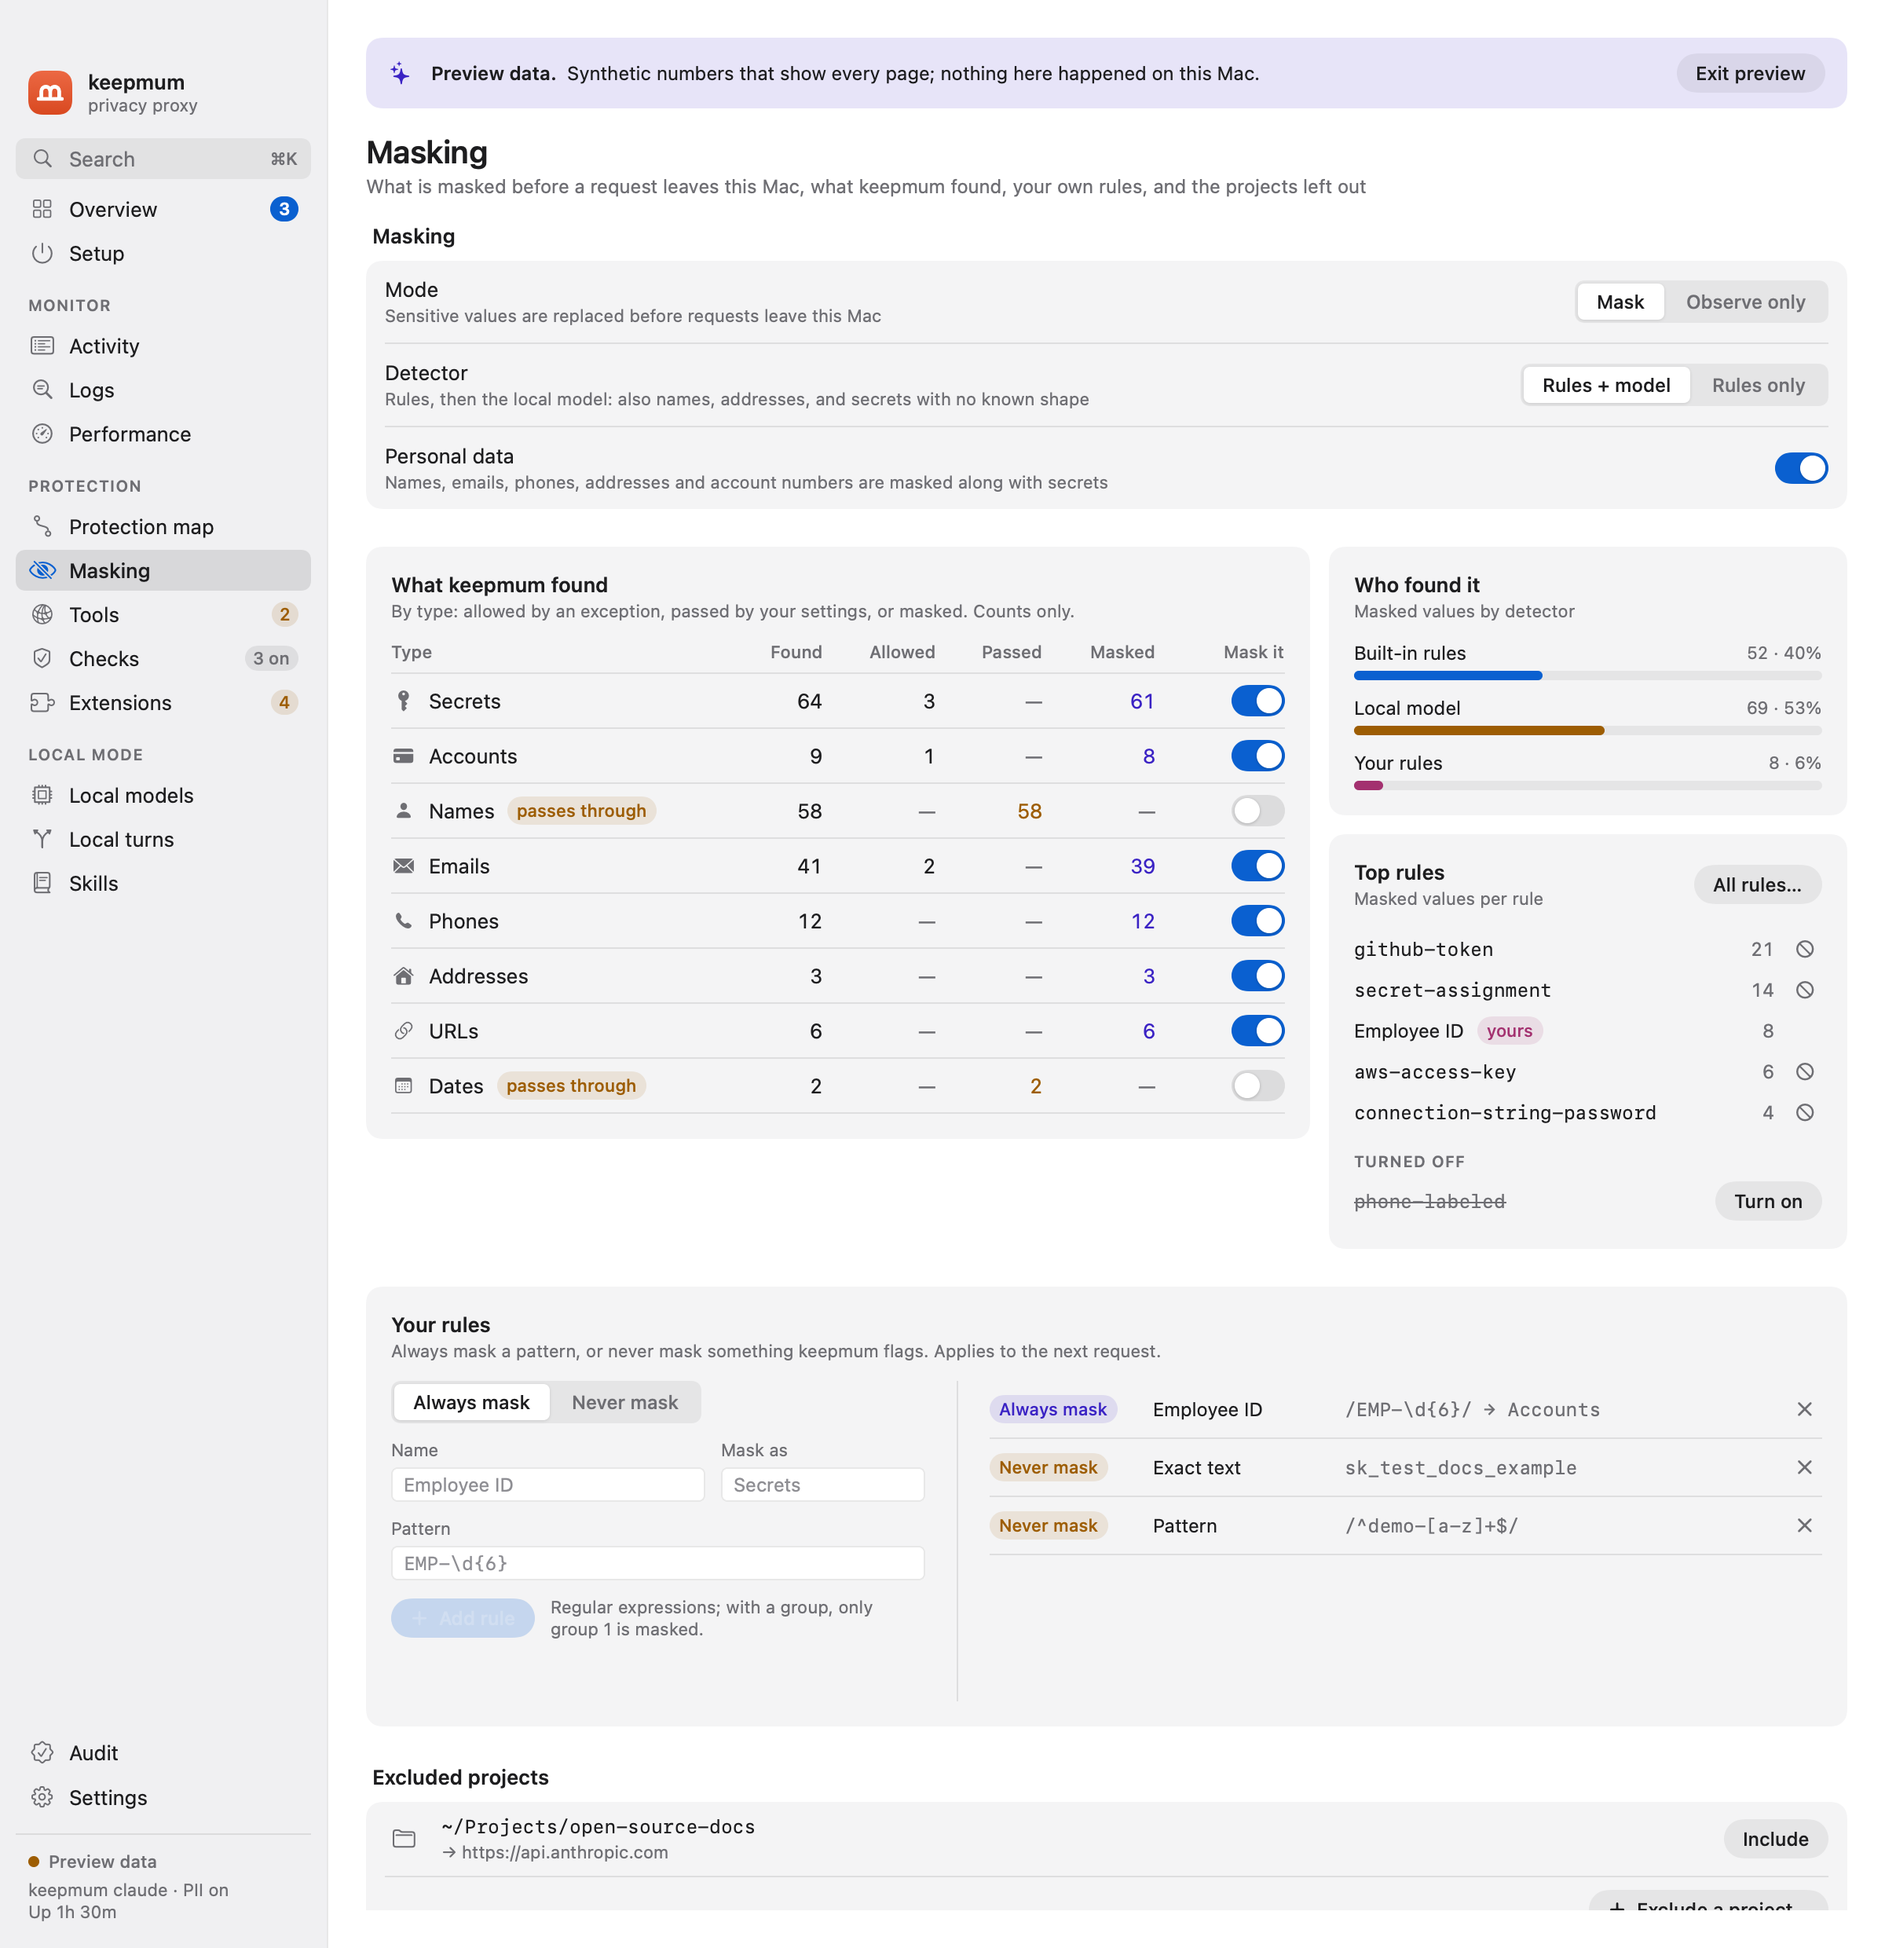
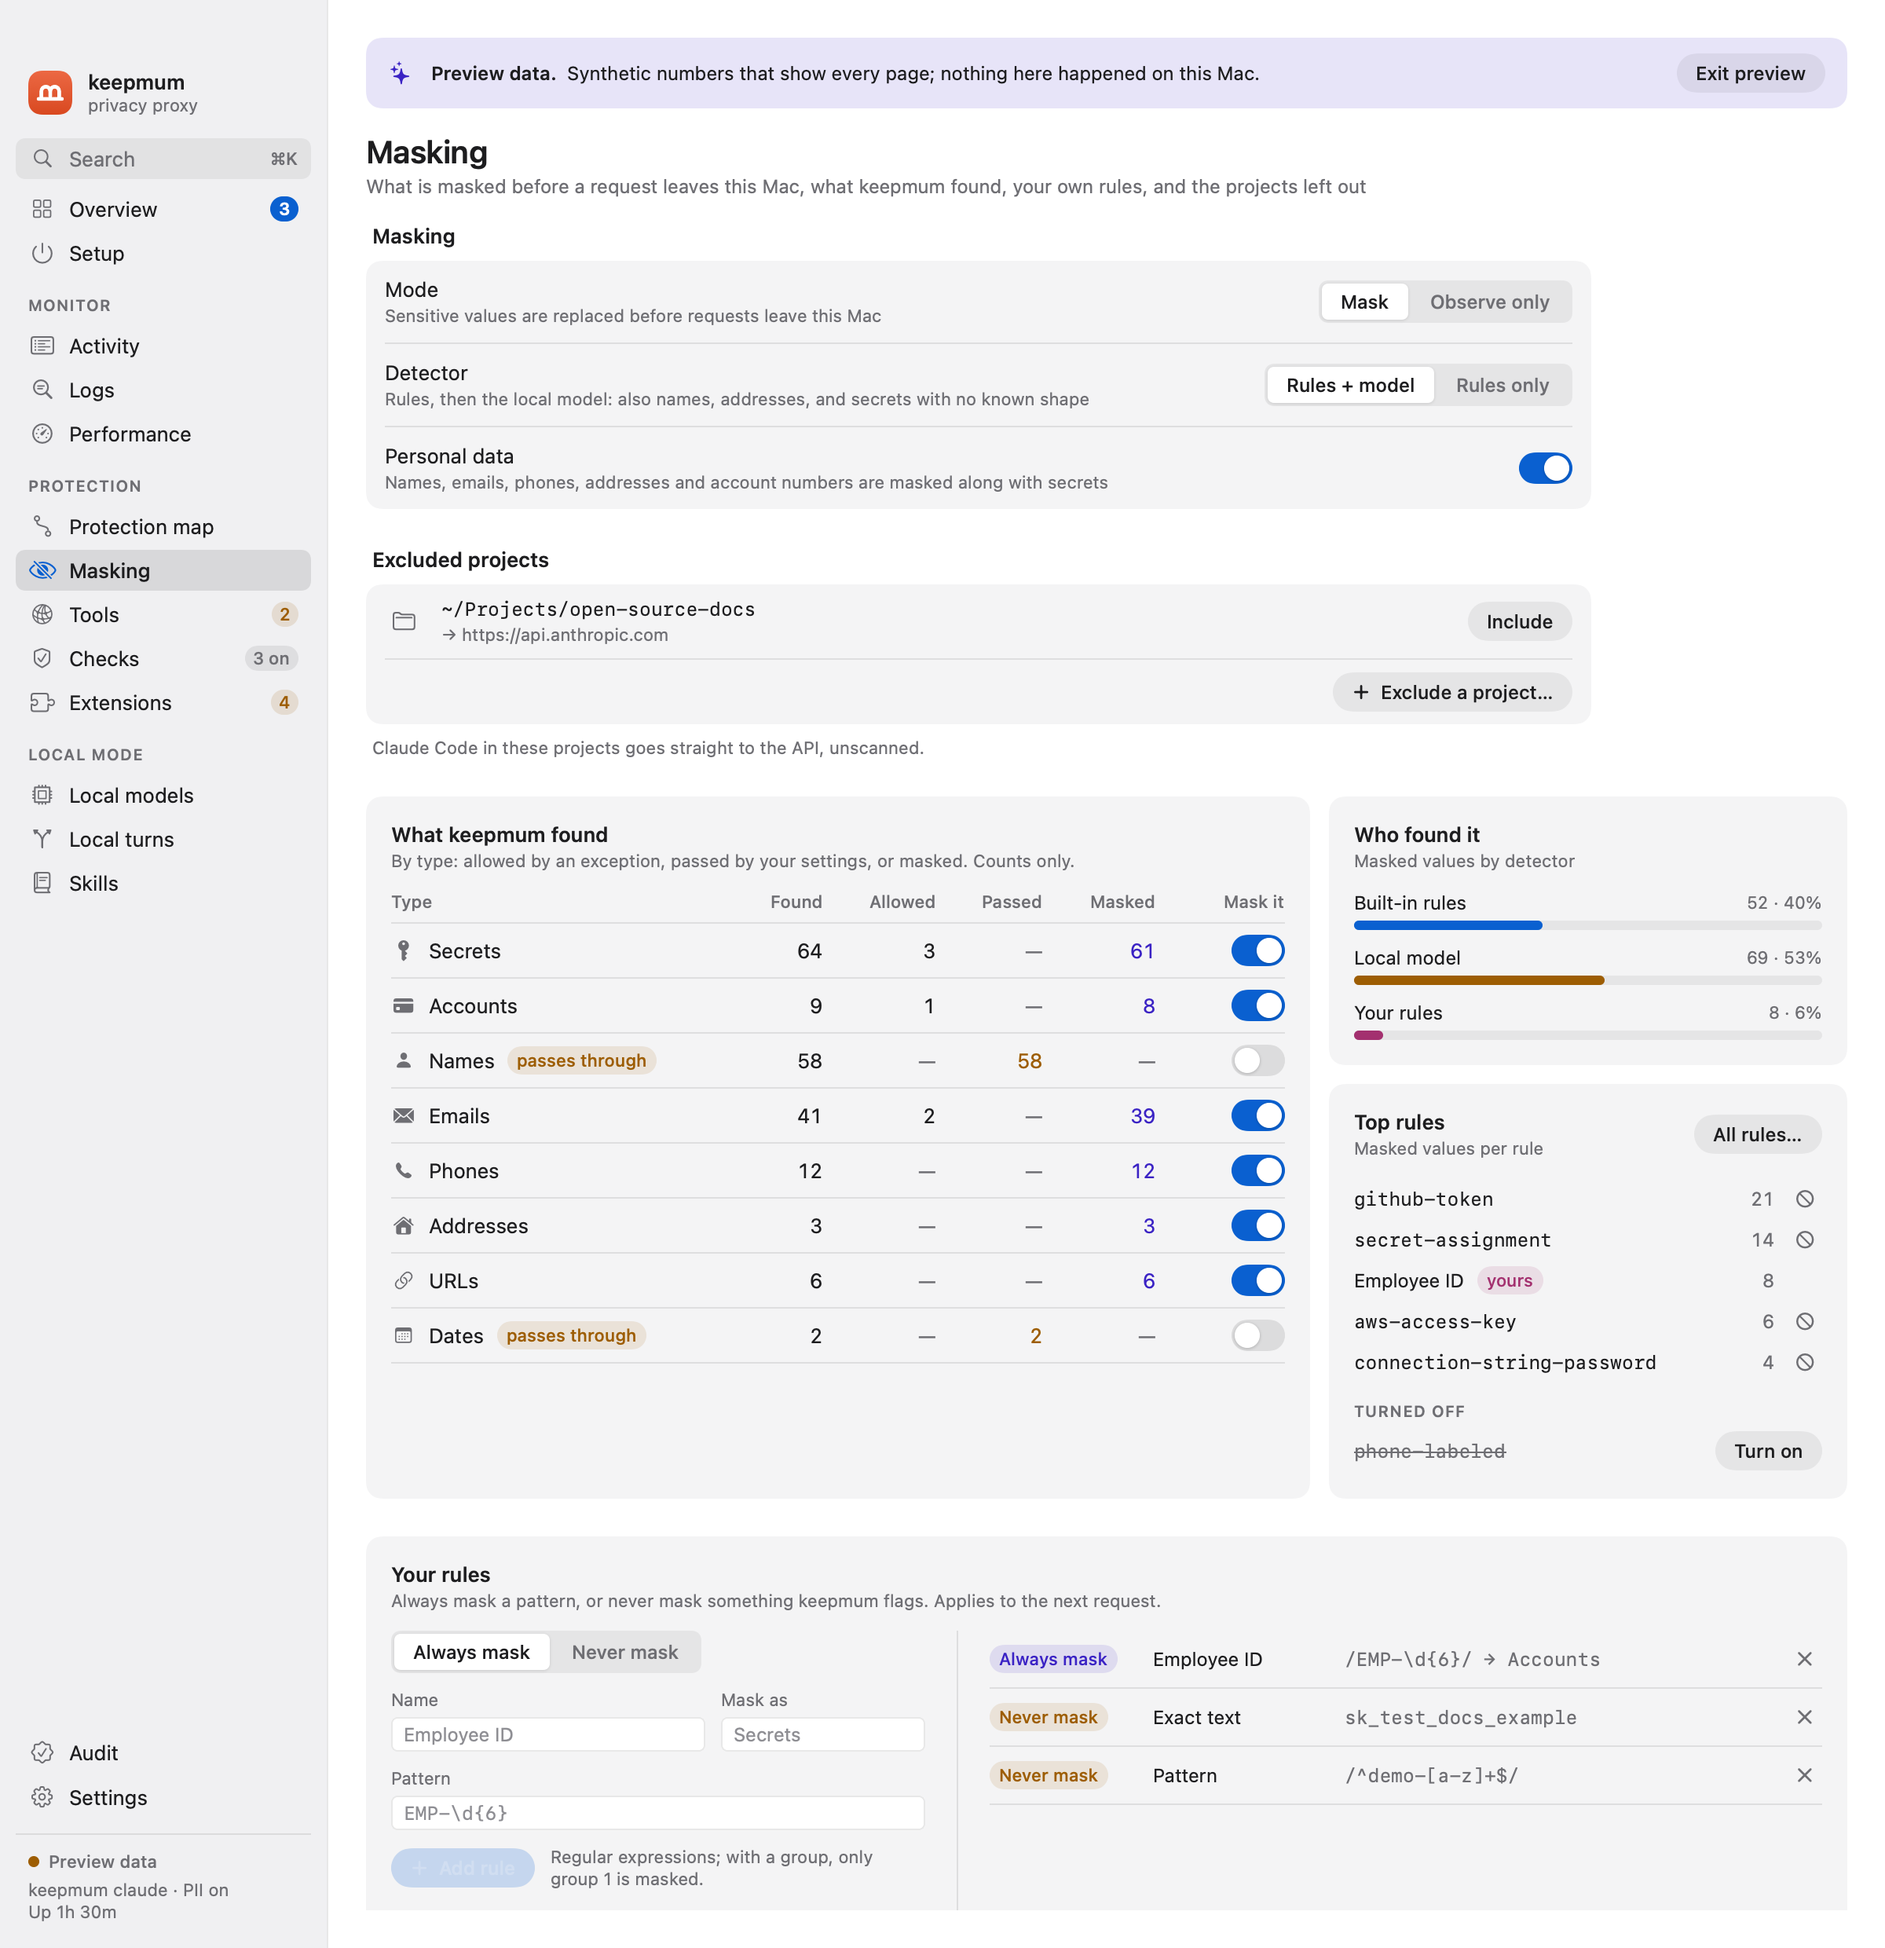
docs(mac): the Masking screenshot and README show excluded projects above what keepmum found

diff --git a/mac/README.md b/mac/README.md
@@ -14,7 +14,7 @@ A menu-bar app that sets keepmum up, runs it in the background and shows what it
 - **Tables** on Activity and Logs: drag a column's edge to size it (double-click the edge to reset it), and right-click the titles or use the table button at their end to show or hide columns (**Sent to**, **Endpoint**, **Status**, **Mode**, **Model** and the Logs table's **Outcome** start hidden) or reset them. A table shows as many rows as fit, in pages (← → or the numbers under it), so it never scrolls up and down. A row's details sit beside the table on a wide window (drag the bar between them to size it, double-click for the default) and take its place on a narrow one, with a way back; either way ↑ ↓ step through the rows and Esc closes them. All of it is kept across launches.
 - **Setup, Protection and Local mode** pages (on a large window, these and Settings put their sections in two columns, each section under the shorter one, with banners and wide tables across both):
   - **Setup:** download the model, start the background service (once it runs, **Restart** reloads it, to pick up a change, with protection left on; **Stop** turns protection off first), and one protection switch per coding agent.
-  - **Masking:** mode (mask, or observe only), detector (the rules and the local model, or the rules alone: `keepmum model`) and personal data (names, emails, phones and addresses too: `keepmum pii`); then what keepmum found: per type, how many values were found, allowed by an exception, passed through by your settings, and masked, with a switch to stop masking a type (names, dates…; secrets ask first); which detector found them (built-in rules, the local model, your rules) and the top rules, each built-in one with a button to turn it off, and **All rules…** for every built-in rule with a switch each (`keepmum rules builtin`); your own rules: patterns always masked and exceptions never masked; and excluded projects (`keepmum exclude`).
+  - **Masking:** mode (mask, or observe only), detector (the rules and the local model, or the rules alone: `keepmum model`), personal data (names, emails, phones and addresses too: `keepmum pii`) and excluded projects (`keepmum exclude`); then what keepmum found: per type, how many values were found, allowed by an exception, passed through by your settings, and masked, with a switch to stop masking a type (names, dates…; secrets ask first); which detector found them (built-in rules, the local model, your rules) and the top rules, each built-in one with a button to turn it off, and **All rules…** for every built-in rule with a switch each (`keepmum rules builtin`); and your own rules: patterns always masked and exceptions never masked.
   - **Tools:** each MCP server and web tool agents offered, and what it may receive: placeholders only, the values it gave you, or also contact details. A server whose tools changed is paused until you trust it again, and calls this week that kept placeholders a setting would let through get a suggestion (`keepmum tools`). Shell commands: hosts a shell command may send a rule's tokens to, besides its issuer's, such as a company GitLab; adding one asks first (`keepmum destinations`).
   - **Checks:** the optional prompt-injection, harm and risky-commands checks, a section each with what it reads: download, Off, Warn or Block each (injection and harm also Local: a flagged request is answered by a model on your Mac instead of being sent, for every agent, the Antigravity CLI and Gemini CLI included), each one's sensitivity, with how often it flags real tool results (injection) or safe prompts (harm), the harm model (Small, Qwen3Guard 0.6B or 4B), the injection model's release with a link to its model card, the rules the commands check looks for; a check left on whose model is missing, such as the one an earlier keepmum downloaded, reads Paused, with Update, and the Checks pane is marked until it is done; and beside them **Local servers**: Ollama, LM Studio, llama.cpp, MLX or another server on this Mac, in the order tried, each with its model and what it answers for: what you typed (the harm check), tool results (the injection check), or both, in the same words as Local turns (`keepmum guard`, `keepmum guard local`). An Ollama server's model menu offers keepmum's tested picks (the recommended one first, each with its download and memory, downloaded with progress), the models it has, and any other from Hugging Face or Ollama's library by link or name (`keepmum guard local pull`); with no server yet, Use keepmum's pick sets it up with Splash (faster, run in the background; where this Mac runs it) or with Ollama. A Splash server (Add server › Splash) has Start and Stop: keepmum runs Splash in the background, again at login, and the row shows it downloading, with how much has come, how fast and how long is left, then warming up (`keepmum guard local splash --start`); before a first download, without a Hugging Face sign-in, a tip offers Get a Token and Add Token, which Hugging Face lets go faster; its model menu offers the picks Splash runs, and its … menu copies the command for Terminal. Its Context menu sets the model's context size (16k to 128k, 64k by default, or Ollama's own), through keepmum's copy of the model in Ollama, which shares its files (`keepmum guard local context`); **Local turns** (its own pane): for each check, what you typed and tool results, the same card: what follows a local turn, the local model it uses, and each step that model takes, answering on this Mac and rewriting for the cloud, with what it reads there: keepmum's instruction or yours (a keepmum's / Yours switch that keeps yours when off, and an editor with **Ask the local model** and Undo; `keepmum guard local assist-instructions`), and the skills, each a chip that turns it on or off for that step. After a local turn: stay on the local model, or hand the conversation back to the cloud with the flagged result replaced by the local model's answer, summary or rewrite (with your own instructions, if you write them) or by a notice (`keepmum guard local handback`), a flagged request (the harm check) either stays local or goes with the flagged part taken out by the local model, checked to be removal only and passed by the harm check sentence by sentence (`--harm rewrite`); and **Review first**: an answer's hand-back, a summary or a rewrite waits in a floating panel, which doesn't take the keyboard, where you send it, edit it, ask the local model to change it (the review pauses while it writes, the pause counted up beside the countdown, 2 minutes at most in all, and never past what the agent waits: Claude Code 6 minutes, pi and opencode 5, shown as the agent's own count, such as Claude Code 0:47 / 6:00), go back to the original (with a warning, and two clicks to send it), withhold the result or keep the turn local before the countdown, or, with Every flagged turn, in one window, a larger window with every flagged piece of the turn, each with the original beside what goes in its place and its own answer (Rewrite or Summary drafted by the local model, Keep original, Remove), then Send to the Cloud or Keep the Turn on This Mac, (Wait, 60 s by default) runs out, after which it stays local or goes as written (If no answer); a notification offers the same answers, and the menu bar icon and menu show what waits (`--review`); and **Skills for local turns**: SKILL.md files the local model gets after keepmum's note, for both checks or one (`keepmum guard local skill`). Each skill has places, chosen by you, two for each check: answering on this Mac, and rewriting for the cloud (a new skill goes everywhere but the rewrite of what you typed); with none it is parked. The Skills window shows what each place sends on every turn, and warns when it is long. keepmum's two example skills (one for answering, one for summaries) come with the first check set to Local, and the Skills window or Settings can add them back. They open in the **Skills** window, which writes new ones, imports a SKILL.md or folder (copied into keepmum's folder, ~/.config/keepmum/skills), edits a skill's name, description, places (a grid: what you typed and tool results, answer and rewrite) and instructions, and moves one to the Trash. It follows Settings › Appearance, as the main window does. **Ask the local model** in that window sends the draft and what to change to your local model and puts its revision in the draft, as many times as you like, with Undo for each; nothing is saved until you save (`keepmum guard local skill assist`).
   - **Extensions:** one section per coding agent, its plugins, hooks, MCP servers, skills, global instructions and marketplaces grouped by kind, each saying what it is: in its author's words, in quotes, where its manifest has some (a plugin's `plugin.json`, a skill's `SKILL.md`), otherwise in keepmum's (when a hook runs, where a server's tools come from). A search (names, descriptions, commands, files) and chips for what is new, what reaches the model as instructions, each kind and each agent narrow the list; chips add up, so Claude Code and Codex, or plugins and hooks, show together. What appeared since you last looked is marked **New**: **Keep** what you added; **Remove…** takes one entry out of its file after a backup (`keepmum extensions`).
